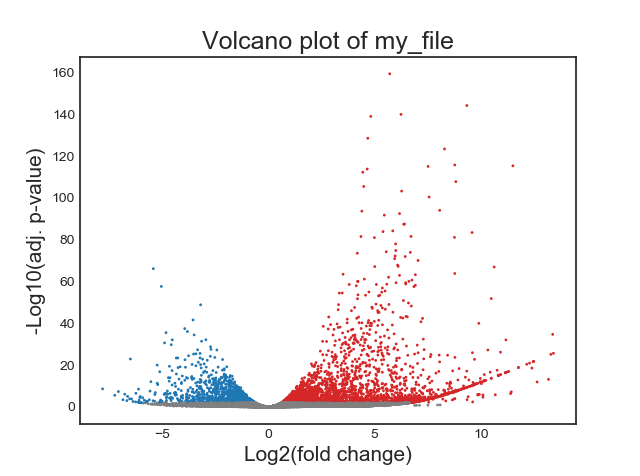
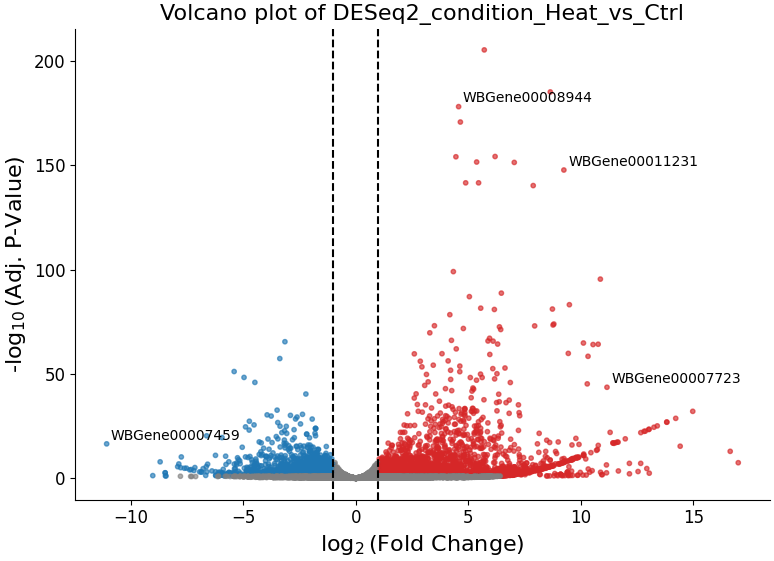
* Added an 'interactive' parameter to Volcano Plots (DESeqFilter.volcano_plot) and 'Scatter Sample Vs Sample' (CountFilter.scatter_sample_vs_sample), allowing user to label data points interactively by clicking on them. * Added more optional plotting parameters to Volcano Plots (DESeqFilter.volcano_

diff --git a/rnalysis/filtering.py b/rnalysis/filtering.py
@@ -2412,13 +2412,16 @@ class DESeqFilter(Filter):
 
     @readable_name('Volcano plot')
     def volcano_plot(self, alpha: param_typing.Fraction = 0.1, log2fc_threshold: Union[float, None] = 1,
-                     title: Union[str, Literal['auto']] = 'auto', title_fontsize: float = 20,
-                     label_fontsize: float = 16, tick_fontsize: float = 12) -> plt.Figure:
+                     title: Union[str, Literal['auto']] = 'auto', title_fontsize: float = 16,
+                     label_fontsize: float = 16, tick_fontsize: float = 12,
+                     annotation_fontsize: float = 10, point_size: float = 10, opacity: param_typing.Fraction = 0.65,
+                     interactive: bool = True, show_cursor: bool = False) -> plt.Figure:
 
         """
         Plots a volcano plot (log2(fold change) vs -log10(adj. p-value)) of the DESeqFilter object. \
         Significantly upregulated features are colored in red, \
-        and significantly downregulated features are colored in blue.
+        and significantly downregulated features are colored in blue. \
+        If the plot is generated in interactive mode, data points can be labeled by clicking on them.
 
         :type alpha: float between 0 and 1
         :param alpha: the significance threshold to paint data points as significantly up/down-regulated.
@@ -2433,6 +2436,18 @@ class DESeqFilter(Filter):
         :type label_fontsize: float (default=15)
          :param tick_fontsize: determines the font size of the X and Y tick labels.
         :type tick_fontsize: float (default=10)
+        :param annotation_fontsize: determines the font size of the point annotations created in interactive mode.
+        :type annotation_fontsize: float (default=10)
+        :param opacity: float between 0 and 1 (default=0.65)
+        :type opacity: determines the opacity of the points in the scatter plot. 0 indicates completely transparent, \
+        while 1 indicates completely opaque.
+        :param point_size: determines the size of the points in the scatter plot
+        :type point_size: float (default=10)
+        :param interactive: if True, turns on interactive mode. While in interactive mode, you can click on a data \
+        point to label it with its gene name/ID, or click on a labeled data point to unlabel it.
+        :type interactive: bool (default=True)
+        :param show_cursor: if True, show the cursor position on the plot during interactive mode
+        :type show_cursor: bool (default=False)
 
         .. figure:: /figures/volcano.png
            :align:   center
@@ -2450,24 +2465,34 @@ class DESeqFilter(Filter):
             assert isinstance(log2fc_threshold, (int, float)) and log2fc_threshold >= 0, \
                 f"'log2fc_threshold' must be a non-negative number!"
 
-        fig = plt.figure(constrained_layout=True)
-        ax = fig.add_subplot(111)
+        if interactive:
+            fig = plt.figure(constrained_layout=True, FigureClass=generic.InteractiveScatterFigure,
+                             labels=parsing.data_to_tuple(self.df.index), annotation_fontsize=annotation_fontsize,
+                             show_cursor=show_cursor)
+            ax = fig.axes[0]
+            kwargs = {'picker': 5}
+        else:
+            fig = plt.figure(constrained_layout=True)
+            ax = fig.add_subplot(111)
+            kwargs = {}
         colors = pd.Series(index=self.df.index, dtype='float64')
         colors.loc[(self.df[self.padj_col] <= alpha) & (self.df[self.log2fc_col] > log2fc_threshold)] = 'tab:red'
         colors.loc[(self.df[self.padj_col] <= alpha) & (self.df[self.log2fc_col] < -log2fc_threshold)] = 'tab:blue'
         colors.fillna('grey', inplace=True)
-        ax.scatter(self.df[self.log2fc_col], -np.log10(self.df[self.padj_col]), c=colors, s=1)
+        ax.scatter(self.df[self.log2fc_col], -np.log10(self.df[self.padj_col]), c=colors, s=point_size, alpha=opacity,
+                   **kwargs)
         if title == 'auto':
             title = f"Volcano plot of {self.fname.stem}"
         ax.set_title(title, fontsize=title_fontsize)
         ax.set_xlabel(r"$\log_2$(Fold Change)", fontsize=label_fontsize)
-        ax.set_ylabel(r'-$\log10$(Adj. P-Value)', fontsize=label_fontsize)
+        ax.set_ylabel(r'-$\log_{10}$(Adj. P-Value)', fontsize=label_fontsize)
         ax.tick_params(axis='both', which='both', labelsize=tick_fontsize)
 
         if log2fc_threshold > 0:
             ax.axvline(log2fc_threshold, linestyle='--', color='black')
             ax.axvline(-log2fc_threshold, linestyle='--', color='black')
         generic.despine(ax)
+
         plt.show()
         return fig
 
@@ -4418,8 +4443,7 @@ class CountFilter(Filter):
 
     @staticmethod
     def _pca_plot(final_df: pd.DataFrame, pc1_var: float, pc2_var: float, sample_grouping: param_typing.GroupedColumns,
-                  labels: bool,
-                  title: str, title_fontsize: float, label_fontsize: float, tick_fontsize: float):
+                  labels: bool, title: str, title_fontsize: float, label_fontsize: float, tick_fontsize: float):
         """
         Internal method, used to plot the results from CountFilter.pca().
 
@@ -4460,12 +4484,17 @@ class CountFilter(Filter):
     def scatter_sample_vs_sample(self, sample1: param_typing.ColumnNames, sample2: param_typing.ColumnNames,
                                  xlabel: Union[str, Literal['auto']] = 'auto',
                                  ylabel: Union[str, Literal['auto']] = 'auto',
-                                 title: Union[str, Literal['auto']] = 'auto',
-                                 title_fontsize: float = 20, label_fontsize: float = 16, tick_fontsize: float = 12,
-                                 highlight: Union[Sequence[str], None] = None) -> plt.Figure:
+                                 title: Union[str, Literal['auto']] = 'auto', title_fontsize: float = 20,
+                                 label_fontsize: float = 16, tick_fontsize: float = 12, annotation_fontsize: float = 10,
+                                 highlight: Union[Sequence[str], None] = None,
+                                 point_color: param_typing.Color = '#6d7178',
+                                 highlight_color: param_typing.Color = '#00aaff', opacity: param_typing.Fraction = 0.65,
+                                 point_size: float = 10, interactive: bool = True, show_cursor: bool = False
+                                 ) -> plt.Figure:
         """
         Generate a scatter plot where every dot is a feature, the x value is log10 of reads \
-        (counts, RPM, RPKM, TPM, etc) in sample1, the y value is log10 of reads in sample2.
+        (counts, RPM, RPKM, TPM, etc) in sample1, the y value is log10 of reads in sample2. \
+        If the plot is generated in interactive mode, data points can be labeled by clicking on them.
 
         :param sample1: Name of the first sample from the CountFilter object. \
         If sample1 is a list, they will be avarged as replicates.
@@ -4479,15 +4508,32 @@ class CountFilter(Filter):
         :type ylabel: str or 'auto'
         :param title: optional. If not specified, a title will be generated automatically.
         :type title: str or 'auto'
-        :param highlight: If specified, the points in the scatter corresponding to the names/features in 'highlight' \
-        will be highlighted in red.
-        :type highlight: Filter object or iterable of strings
+
         :param title_fontsize: determines the font size of the graph title.
         :type title_fontsize: float (default=30)
         :param label_fontsize: determines the font size of the X and Y axis labels.
         :type label_fontsize: float (default=15)
         :param tick_fontsize: determines the font size of the X and Y tick labels.
         :type tick_fontsize: float (default=10)
+        :param annotation_fontsize: determines the font size of the point annotations created in interactive mode.
+        :type annotation_fontsize: float (default=10)
+        :param highlight: If specified, the points in the scatter corresponding to the names/features in 'highlight' \
+        will be highlighted in red.
+        :type highlight: Filter object or iterable of strings
+        :param point_color: color of the points in the scatter plot.
+        :type point_color: str or tuple of (int, int, int) (default='#6d7178')
+        :param highlight_color: color of the highlighted points in the scatter plot.
+        :type highlight_color: str or tuple of (int, int, int) (default='#00aaff')
+        :param opacity: float between 0 and 1 (default=0.65)
+        :type opacity: determines the opacity of the points in the scatter plot. 0 indicates completely transparent, \
+        while 1 indicates completely opaque.
+        :param point_size: determines the size of the points in the scatter plot
+        :type point_size: float (default=10)
+        :param interactive: if True, turns on interactive mode. While in interactive mode, you can click on a data \
+        point to label it with its gene name/ID, or click on a labeled data point to unlabel it.
+        :type interactive: bool (default=True)
+        :param show_cursor: if True, show the cursor position on the plot during interactive mode
+        :type show_cursor: bool (default=False)
         :return: a matplotlib axis object.
 
         .. figure:: /figures/rpm_vs_rpm.png
@@ -4506,24 +4552,34 @@ class CountFilter(Filter):
         yvals = np.log10(self.df[sample2].values + 1) if isinstance(sample2, str) else np.log10(
             self.df[sample2].mean(axis=1).values + 1)
 
-        plt.style.use('seaborn-whitegrid')
         if xlabel.lower() == 'auto':
-            xlabel = f'log10(reads per million + 1) from {sample1}'
+            xlabel = r'$\log_{10}$(normalized reads + 1) from ' + f'{sample1}'
         if ylabel.lower() == 'auto':
-            ylabel = f'log10(reads per million + 1) from {sample2}'
+            ylabel = r'$\log_{10}$(normalized reads + 1) from ' + f'{sample2}'
         if title.lower() == 'auto':
             title = f'{sample1} vs {sample2}'
-        fig = plt.figure(figsize=(8, 8))
-        ax = fig.add_subplot(1, 1, 1)
+
+        if interactive:
+            fig = plt.figure(figsize=(8, 8), constrained_layout=True, FigureClass=generic.InteractiveScatterFigure,
+                             labels=parsing.data_to_tuple(self.df.index), annotation_fontsize=annotation_fontsize,
+                             show_cursor=show_cursor)
+            ax = fig.axes[0]
+            kwargs = {'picker': 5}
+        else:
+            fig = plt.figure(figsize=(8, 8), constrained_layout=True)
+            ax = fig.add_subplot(1, 1, 1)
+            kwargs = {}
+
+        generic.despine(ax)
         ax.set_xlabel(xlabel, fontsize=label_fontsize)
         ax.set_ylabel(ylabel, fontsize=label_fontsize)
         ax.set_title(title, fontsize=title_fontsize)
-        ax.scatter(xvals, yvals, s=3, c='#6d7178')
         ax.tick_params(axis='both', which='both', labelsize=tick_fontsize)
 
         if highlight is not None:
-            highlight_features = highlight.index_set if issubclass(highlight.__class__,
-                                                                   Filter) else parsing.data_to_set(highlight)
+            highlight_features = highlight.index_set if validation.isinstanceinh(highlight,
+                                                                                 Filter) else parsing.data_to_set(
+                highlight)
             highlight_valid = highlight_features.intersection(self.index_set)
             if len(highlight_valid) < len(highlight_features):
                 warnings.warn(
@@ -4531,12 +4587,20 @@ class CountFilter(Filter):
                     f'{len(highlight_features) - len(highlight_valid)} features are missing from the '
                     f'CountFilter object and will not be highlighted.')
 
-            xvals_highlight = np.log10(self.df.loc[highlight_valid, sample1].values + 1) if \
-                isinstance(sample1, str) else np.log10(self.df.loc[highlight_valid, sample1].mean(axis=1).values + 1)
-            yvals_highlight = np.log10(self.df.loc[highlight_valid, sample2].values + 1) if \
-                isinstance(sample2, str) else np.log10(self.df.loc[highlight_valid, sample2].mean(axis=1).values + 1)
+            colors = pd.Series(index=self.df.index, dtype='float64')
+            colors.loc[parsing.data_to_list(highlight_valid)] = highlight_color
+            colors.fillna(point_color, inplace=True)
+            kwargs['c'] = colors
+        else:
+            kwargs['c'] = point_color
 
-            ax.scatter(xvals_highlight, yvals_highlight, s=3, c=np.array([[0.75, 0.1, 0.1]]))
+        ax.scatter(xvals, yvals, s=point_size, alpha=opacity, **kwargs)
+
+        xlim, ylim = ax.get_xlim(), ax.get_ylim()
+        axis_lims = (min(xlim[0], ylim[0]), max(xlim[1], ylim[1]))
+        ax.set_xlim(axis_lims)
+        ax.set_ylim(axis_lims)
+
         plt.show()
         return fig
 

diff --git a/tests/test_filtering.py b/tests/test_filtering.py
@@ -289,10 +289,15 @@ def test_filter_low_reads_reverse():
     assert np.all(h.df == low_truth)
 
 
-def test_deseqfilter_volcano_plot_api():
+@pytest.mark.parametrize('interactive', [True, False])
+@pytest.mark.parametrize('show_cursor', [True, False])
+@pytest.mark.parametrize('title,alpha,log2fc_threshold', [
+    ('auto', 0.05, None),
+    ('title', 0.1, 0),
+    ('title', 0.001, 1)])
+def test_deseqfilter_volcano_plot_api(interactive, show_cursor, title, alpha, log2fc_threshold):
     d = DESeqFilter("tests/test_files/test_deseq.csv")
-    d.volcano_plot()
-    d.volcano_plot(alpha=0.000001)
+    d.volcano_plot(alpha, log2fc_threshold, title, interactive=interactive, show_cursor=show_cursor)
     plt.close('all')
 
 
@@ -346,13 +351,17 @@ def test_countfilter_plot_expression_api():
     plt.close('all')
 
 
-def test_countfilter_scatter_sample_vs_sample_api():
+@pytest.mark.parametrize('highlight',
+                         [None, {'WBGene00007063', 'WBGene00007064'}, DESeqFilter('tests/test_files/test_deseq.csv')])
+@pytest.mark.parametrize('interactive', [True, False])
+@pytest.mark.parametrize('show_cursor', [True, False])
+@pytest.mark.parametrize('s1,s2,xlabel,ylabel,title', [
+    ('cond1', 'cond2', 'auto', 'auto', 'auto'),
+    ('cond3', ['cond2', 'cond1', 'cond4'], 'x', 'y', 'title')])
+def test_countfilter_scatter_sample_vs_sample_api(s1, s2, xlabel, ylabel, title, interactive, show_cursor, highlight):
     c = CountFilter("tests/test_files/counted.csv")
-    c.scatter_sample_vs_sample('cond1', 'cond2')
-    c.scatter_sample_vs_sample('cond3', ['cond2', 'cond1', 'cond4'], highlight={'WBGene00007063', 'WBGene00007064'})
-    d = DESeqFilter('tests/test_files/test_deseq.csv').intersection(c, inplace=True)
-    c.scatter_sample_vs_sample('cond3', ['cond2', 'cond1', 'cond4'], xlabel='label', title='title', ylabel='ylabel',
-                               highlight=d)
+    c.scatter_sample_vs_sample(s1, s2, xlabel, ylabel, title, interactive=interactive, show_cursor=show_cursor,
+                               highlight=highlight)
     plt.close('all')
 
 

diff --git a/HISTORY.rst b/HISTORY.rst
@@ -11,6 +11,8 @@ Added
 ******
 * Added three new methods for automatic estimation of the number of clusters in a dataset: Callinski-Harabasz, Davies-Bouldin, and Bayesian Information Criterieon.
 * Added a 'Close all Figures' actions to the 'View' menu of the *RNAlysis* graphic interface.
+* Added an 'interactive' parameter to Volcano Plots (DESeqFilter.volcano_plot) and 'Scatter Sample Vs Sample' (CountFilter.scatter_sample_vs_sample), allowing user to label data points interactively by clicking on them.
+* Added more optional plotting parameters to Volcano Plots (DESeqFilter.volcano_plot) and 'Scatter Sample Vs Sample' (CountFilter.scatter_sample_vs_sample).
 
 Changed
 ********
